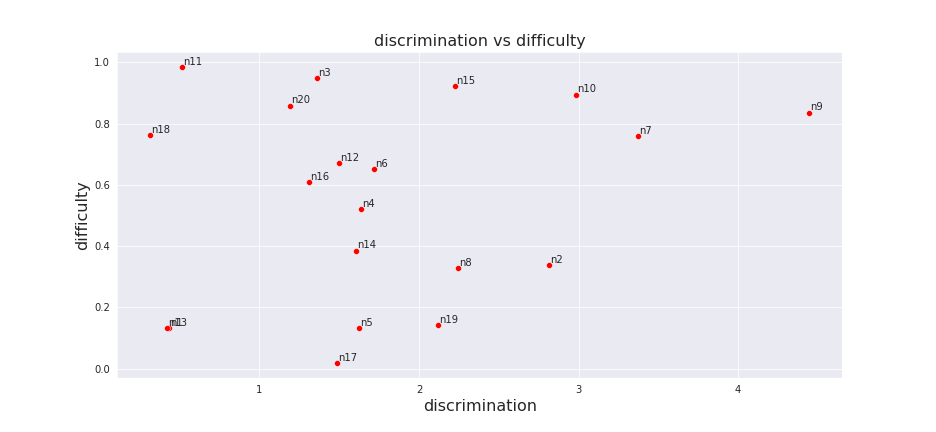
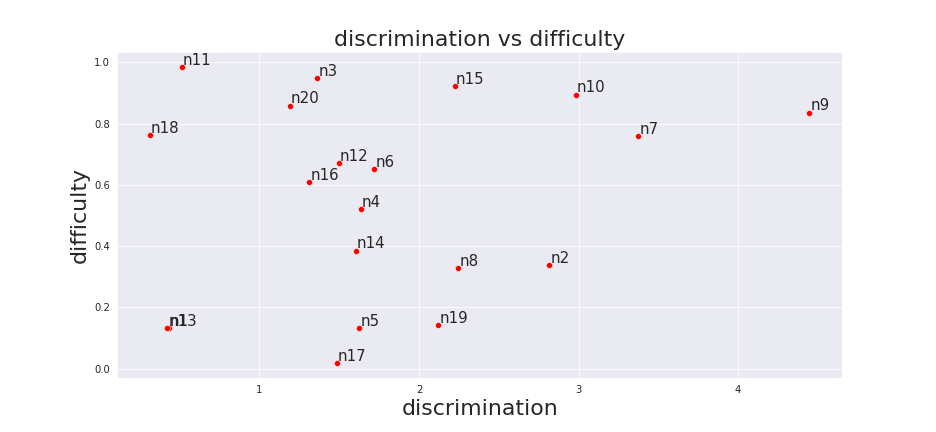
update: new version | update graphs and version

diff --git a/src/birt/__init__.py b/src/birt/__init__.py
@@ -251,7 +251,7 @@ class BIRTGD:
                     '''.format(abi, dif, dis)
             print(out + hyper)
 
-    def plot(self, xaxis=None, yaxis=None, kwargs={}, ann=False, font_size=12):
+    def plot(self, xaxis=None, yaxis=None, kwargs={}, ann=False, font_size=12, font_ann_size=12):
         """Plot's of results
             
         Parameters
@@ -261,11 +261,13 @@ class BIRTGD:
         yaxis : {'discrimination','difficulties', 'average_response', 'average_item'}
                 y axis of plot.
         kwargs: dict.
-            other Matplotlib library arguments.
+            other Matplotlib library arguments
         ann   : boolean.
             data points with annotations
         font_size : int.
             font size of x and y labels
+        font_ann_size : int.
+            font size of ann points
 
         Returns
         -------------------------------------------------------
@@ -281,28 +283,28 @@ class BIRTGD:
             else:
                 sns.scatterplot(x=self.discriminations, y=self.difficulties, **kwargs)
                 for i in range(pij.shape[0]):
-                    plt.text(x = self.discriminations[i]+0.007, y = self.difficulties[i]+0.007, s='n{}'.format(i+1))
+                    plt.text(x = self.discriminations[i]+0.007, y = self.difficulties[i]+0.007, s='n{}'.format(i+1), fontsize=font_ann_size)
         elif (yaxis == 'discrimination') and (xaxis == 'difficulty'):
             if ann == False:
                 sns.scatterplot(x=self.difficulties, y=self.discriminations, **kwargs)
             else:
                 sns.scatterplot(x=self.difficulties, y=self.discriminations, **kwargs)
                 for i in range(pij.shape[0]):
-                    plt.text(x = self.difficulties[i]+0.007, y = self.discriminations[i]+0.007, s='n{}'.format(i+1))
+                    plt.text(x = self.difficulties[i]+0.007, y = self.discriminations[i]+0.007, s='n{}'.format(i+1), fontsize=font_ann_size)
         elif (xaxis == 'ability') and (yaxis == 'average_response'):
             if ann == False:
                 sns.scatterplot(x=self.abilities, y=pij.apply(np.mean,axis=0), **kwargs)
             else:
                 sns.scatterplot(x=self.abilities, y=pij.apply(np.mean,axis=0), **kwargs)
                 for i in range(pij.shape[1]):
-                    plt.text(x = self.abilities[i]+0.003, y =pij.apply(np.mean,axis=0)[i]+0.003, s='{}'.format(self.pij.columns[i]))
+                    plt.text(x = self.abilities[i]+0.003, y =pij.apply(np.mean,axis=0)[i]+0.003, s='{}'.format(self.pij.columns[i]), fontsize=font_ann_size)
         elif (xaxis == 'difficulty') and (yaxis == 'average_item'):
             if ann == False:
                 sns.scatterplot(x=self.difficulties, y=pij.apply(np.mean,axis=1), **kwargs)
             else:
                 sns.scatterplot(x=self.difficulties, y=pij.apply(np.mean,axis=1), **kwargs)
                 for i in range(pij.shape[0]):
-                    plt.text(x = self.difficulties[i]+0.004, y =pij.apply(np.mean,axis=1)[i]+0.004, s='n{}'.format(i+1))
+                    plt.text(x = self.difficulties[i]+0.004, y =pij.apply(np.mean,axis=1)[i]+0.004, s='n{}'.format(i+1), fontsize=font_ann_size)
         elif xaxis == yaxis:
             raise ValueError('xaxis and yaxis are the same')
         elif xaxis not in ['discrimination','difficulties','abilities'] or yaxis not in ['discrimination','difficulties', 'average_response', 'average_item']:

diff --git a/setup.py b/setup.py
@@ -5,7 +5,7 @@ with open("README.md", "r", encoding="utf-8") as fh:
 
 setuptools.setup(
     name="birt-gd", # Replace with your own username
-    version="0.1.35",
+    version="0.1.36",
     author="Manuel Ferreira Junior",
     author_email="ferreira.jr.ufpb@gmail.com",
     description="BIRTGD is an implementation of Beta3-irt using gradient descent.",

diff --git a/README.md b/README.md
@@ -209,18 +209,16 @@ birt.plot(xaxis='discrimination',
           yaxis='difficulty',
           ann=True,
           kwargs={'color': 'red'},
-          font_size=16)
+          font_size=22,font_ann_size=15)
 plt.show()
 ```
 
 <img alt = "assets/dis_diff_ex.png" src="https://raw.githubusercontent.com/Manuelfjr/birt-gd/main/assets/dis_diff_ex.png">
 
 ```py
-birt.plot(xaxis='difficulty',
-          yaxis='average_item',
-          ann=True,
-          kwargs={'color': 'blue'},
-          font_size=16)
+birt.plot(xaxis='difficulty', yaxis='average_item',
+          ann=True, kwargs={'color': 'blue'},
+          font_size=22,font_ann_size=17)
 plt.show()
 ```
 
@@ -228,10 +226,8 @@ plt.show()
 
 
 ```py
-birt.plot(xaxis='ability',
-          yaxis='average_response',
-          ann=False,
-          font_size=16)
+birt.plot(xaxis='ability', yaxis='average_response',
+          ann=True, font_size=16, font_ann_size=16)
 plt.show()
 ```
 
